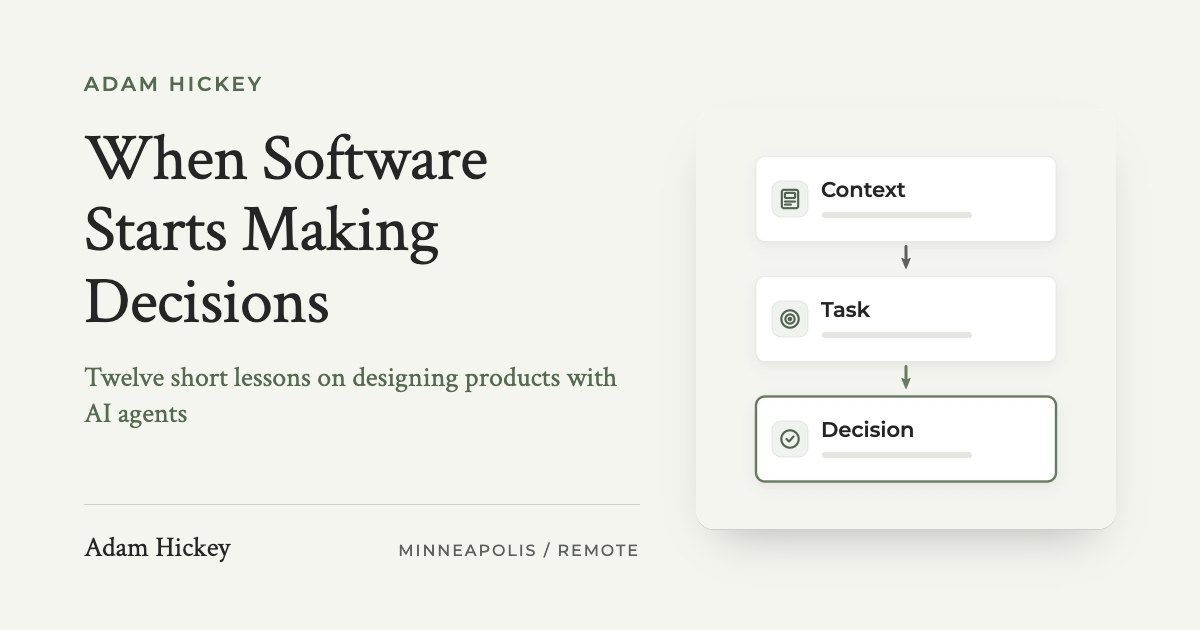
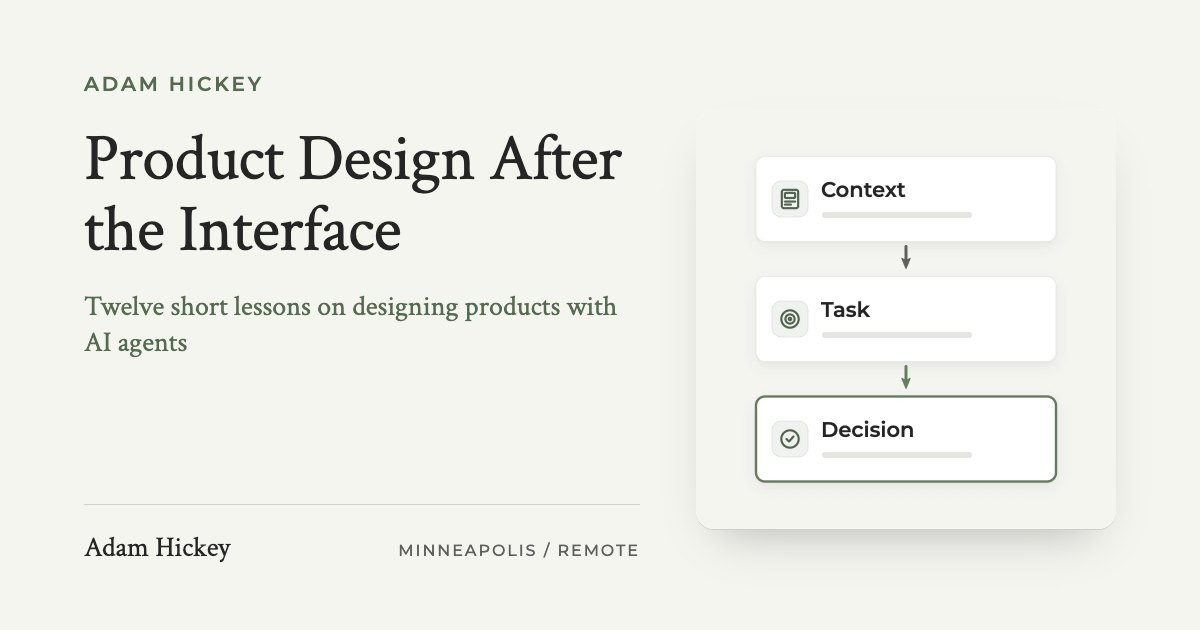
Writing: The Shift is "Product Design After the Interface"
The landing's headline changes from "When Software Starts Making
Decisions", and the dek now says what comes after the interface: the
three decisions a designer makes when agents do the work, each marked
with the highlighter in white on the hero's ground. The share card is
re-rendered under the new title (writing.jpg ?v=7), and the name moves
in the JSON-LD, og.mjs, llms.txt, the README, the forwarding note, and
the two drawing specs. The <title> keeps its search phrase.

Changed region(s): [[0.0617, 0.4222, 0.5242, 0.6937], [0.0617, 0.2111, 0.5242, 0.3016], [0.0617, 0.3317, 0.37, 0.4222]]

diff --git a/writing/index.html b/writing/index.html
@@ -19,7 +19,7 @@
   <meta property="og:url" content="https://adamhickey.com/writing/index.html" />
   <meta property="og:title" content="The Shift: Twelve Short Lessons on Designing Products With AI Agents | Adam Hickey" />
   <meta property="og:description" content="The Shift: twelve short lessons on how product design changes when software can act on its own, from designing the task instead of the app to what an AI agent is made of, how to plan an AI product, and what to redesign first." />
-  <meta property="og:image" content="https://adamhickey.com/img/og/writing.jpg?v=6" />
+  <meta property="og:image" content="https://adamhickey.com/img/og/writing.jpg?v=7" />
   <meta property="og:image:width" content="1200" />
   <meta property="og:image:height" content="630" />
   <meta name="twitter:card" content="summary_large_image" />
@@ -34,7 +34,7 @@
         {
           "@type": "CollectionPage",
           "@id": "https://adamhickey.com/writing/index.html#page",
-          "name": "When Software Starts Making Decisions",
+          "name": "Product Design After the Interface",
           "description": "Twelve short lessons in four chapters on how product design changes when software can act on its own: the job, the agent, the product, and practice. Each takes one idea from someone working on it and tests it against something Adam has built.",
           "url": "https://adamhickey.com/writing/index.html",
           "isPartOf": {
@@ -118,7 +118,7 @@
   <link rel="stylesheet" href="../style.css?v=20261116c" />
   <link rel="stylesheet" href="../site-nav.css?v=20261030b" />
   <link rel="stylesheet" href="index.css?v=3" />
-  <link rel="stylesheet" href="shift.css?v=45" />
+  <link rel="stylesheet" href="shift.css?v=46" />
   <script src="../site-nav.js?v=20260906a" defer></script>
   <script src="shift.js?v=2" defer></script>
   <!-- The header logo plays a one-shot reveal clip on load and fades out
@@ -260,8 +260,8 @@
         <div class="shift-hero-grid">
           <div>
             <p class="shift-series-label">A short course</p>
-            <h1 class="case-title">When Software Starts Making Decisions</h1>
-            <p class="build-dek">Each lesson takes one idea from someone working on it, tests it against something I&rsquo;ve built, and ends on two questions for your own team.</p>
+            <h1 class="case-title">Product Design After the Interface</h1>
+            <p class="build-dek">When AI agents do the work, the design moves from the screen to the decisions behind it: <mark>what the agent may do alone</mark>, <mark>when it stops to ask</mark>, and <mark>how a person checks its work</mark>. Each lesson tests one idea against something I&rsquo;ve built.</p>
             <ul class="shift-facts">
               <li><strong>12</strong> lessons</li>
               <li><strong>3</strong> minutes or less each</li>

diff --git a/writing/shift.css b/writing/shift.css
@@ -68,6 +68,11 @@
    it in .shift-series, which carries this same step under it. Without it
    the label sat on the title's first line. */
 .shift-landing .case-hero .shift-series-label { margin-bottom: var(--space-md); }
+/* The landing's dek marks the three things the series says a designer
+   decides now (2026-11-16, owner: mark the words that explain the title).
+   The site's tea-light highlighter is the hero's own ground here, so the
+   mark takes the white a lesson's hero mark uses, at full strength. */
+.shift-landing .case-hero .build-dek mark { background: var(--color-white); }
 .shift-series-label a:hover { text-decoration: underline; }
 
 /* A number in a disc: a lesson's place on the landing. */

diff --git a/index.html b/index.html
@@ -128,7 +128,7 @@
   <link rel="stylesheet" href="site-nav.css?v=20261030b" />
   <link rel="stylesheet" href="app-device.css?v=1" />
   <link rel="stylesheet" href="thumb-loop.css?v=22" />
-  <link rel="stylesheet" href="writing/shift.css?v=45" />
+  <link rel="stylesheet" href="writing/shift.css?v=46" />
   <script src="site-nav.js?v=20260906a" defer></script>
   <script src="app-device.js?v=1" defer></script>
   <!-- The header logo plays a one-shot reveal clip on load and fades out

diff --git a/writing/how-do-you-run-a-design-sprint-for-an-ai-product.html b/writing/how-do-you-run-a-design-sprint-for-an-ai-product.html
@@ -115,7 +115,7 @@
   <link rel="stylesheet" href="../style.css?v=20261116c" />
   <link rel="stylesheet" href="../site-nav.css?v=20261030b" />
   <link rel="stylesheet" href="../read-aloud.css?v=7" />
-  <link rel="stylesheet" href="shift.css?v=45" />
+  <link rel="stylesheet" href="shift.css?v=46" />
   <script src="../site-nav.js?v=20260906a" defer></script>
   <script src="../read-aloud.js?v=5" defer></script>
   <script src="../writing.js?v=20261030a" defer></script>

diff --git a/writing/how-do-you-write-design-quality-down-so-an-agent-can-use-it.html b/writing/how-do-you-write-design-quality-down-so-an-agent-can-use-it.html
@@ -115,7 +115,7 @@
   <link rel="stylesheet" href="../style.css?v=20261116c" />
   <link rel="stylesheet" href="../site-nav.css?v=20261030b" />
   <link rel="stylesheet" href="../read-aloud.css?v=7" />
-  <link rel="stylesheet" href="shift.css?v=45" />
+  <link rel="stylesheet" href="shift.css?v=46" />
   <script src="../site-nav.js?v=20260906a" defer></script>
   <script src="../read-aloud.js?v=5" defer></script>
   <script src="../writing.js?v=20261030a" defer></script>

diff --git a/writing/what-changes-when-you-design-the-task-instead-of-the-app.html b/writing/what-changes-when-you-design-the-task-instead-of-the-app.html
@@ -115,7 +115,7 @@
   <link rel="stylesheet" href="../style.css?v=20261116c" />
   <link rel="stylesheet" href="../site-nav.css?v=20261030b" />
   <link rel="stylesheet" href="../read-aloud.css?v=7" />
-  <link rel="stylesheet" href="shift.css?v=45" />
+  <link rel="stylesheet" href="shift.css?v=46" />
   <script src="../site-nav.js?v=20260906a" defer></script>
   <script src="../read-aloud.js?v=5" defer></script>
   <script src="../writing.js?v=20261030a" defer></script>

diff --git a/writing/what-does-a-requirements-doc-need-once-the-product-is-ai.html b/writing/what-does-a-requirements-doc-need-once-the-product-is-ai.html
@@ -115,7 +115,7 @@
   <link rel="stylesheet" href="../style.css?v=20261116c" />
   <link rel="stylesheet" href="../site-nav.css?v=20261030b" />
   <link rel="stylesheet" href="../read-aloud.css?v=7" />
-  <link rel="stylesheet" href="shift.css?v=45" />
+  <link rel="stylesheet" href="shift.css?v=46" />
   <script src="../site-nav.js?v=20260906a" defer></script>
   <script src="../read-aloud.js?v=5" defer></script>
   <script src="../writing.js?v=20261030a" defer></script>

diff --git a/writing/what-is-an-ai-agent-actually-made-of.html b/writing/what-is-an-ai-agent-actually-made-of.html
@@ -115,7 +115,7 @@
   <link rel="stylesheet" href="../style.css?v=20261116c" />
   <link rel="stylesheet" href="../site-nav.css?v=20261030b" />
   <link rel="stylesheet" href="../read-aloud.css?v=7" />
-  <link rel="stylesheet" href="shift.css?v=45" />
+  <link rel="stylesheet" href="shift.css?v=46" />
   <script src="../site-nav.js?v=20260906a" defer></script>
   <script src="../read-aloud.js?v=5" defer></script>
   <script src="../writing.js?v=20261030a" defer></script>

diff --git a/writing/what-is-ux-for-when-agents-build-the-software.html b/writing/what-is-ux-for-when-agents-build-the-software.html
@@ -115,7 +115,7 @@
   <link rel="stylesheet" href="../style.css?v=20261116c" />
   <link rel="stylesheet" href="../site-nav.css?v=20261030b" />
   <link rel="stylesheet" href="../read-aloud.css?v=7" />
-  <link rel="stylesheet" href="shift.css?v=45" />
+  <link rel="stylesheet" href="shift.css?v=46" />
   <script src="../site-nav.js?v=20260906a" defer></script>
   <script src="../read-aloud.js?v=5" defer></script>
   <script src="../writing.js?v=20261030a" defer></script>

diff --git a/writing/what-makes-onboarding-in-an-ai-app-feel-personal.html b/writing/what-makes-onboarding-in-an-ai-app-feel-personal.html
@@ -115,7 +115,7 @@
   <link rel="stylesheet" href="../style.css?v=20261116c" />
   <link rel="stylesheet" href="../site-nav.css?v=20261030b" />
   <link rel="stylesheet" href="../read-aloud.css?v=7" />
-  <link rel="stylesheet" href="shift.css?v=45" />
+  <link rel="stylesheet" href="shift.css?v=46" />
   <script src="../site-nav.js?v=20260906a" defer></script>
   <script src="../read-aloud.js?v=5" defer></script>
   <script src="../writing.js?v=20261030a" defer></script>

diff --git a/writing/what-should-come-first-when-you-redesign-an-ai-product.html b/writing/what-should-come-first-when-you-redesign-an-ai-product.html
@@ -115,7 +115,7 @@
   <link rel="stylesheet" href="../style.css?v=20261116c" />
   <link rel="stylesheet" href="../site-nav.css?v=20261030b" />
   <link rel="stylesheet" href="../read-aloud.css?v=7" />
-  <link rel="stylesheet" href="shift.css?v=45" />
+  <link rel="stylesheet" href="shift.css?v=46" />
   <script src="../site-nav.js?v=20260906a" defer></script>
   <script src="../read-aloud.js?v=5" defer></script>
   <script src="../writing.js?v=20261030a" defer></script>

diff --git a/writing/what-should-you-never-do-when-building-an-agent.html b/writing/what-should-you-never-do-when-building-an-agent.html
@@ -115,7 +115,7 @@
   <link rel="stylesheet" href="../style.css?v=20261116c" />
   <link rel="stylesheet" href="../site-nav.css?v=20261030b" />
   <link rel="stylesheet" href="../read-aloud.css?v=7" />
-  <link rel="stylesheet" href="shift.css?v=45" />
+  <link rel="stylesheet" href="shift.css?v=46" />
   <script src="../site-nav.js?v=20260906a" defer></script>
   <script src="../read-aloud.js?v=5" defer></script>
   <script src="../writing.js?v=20261030a" defer></script>
